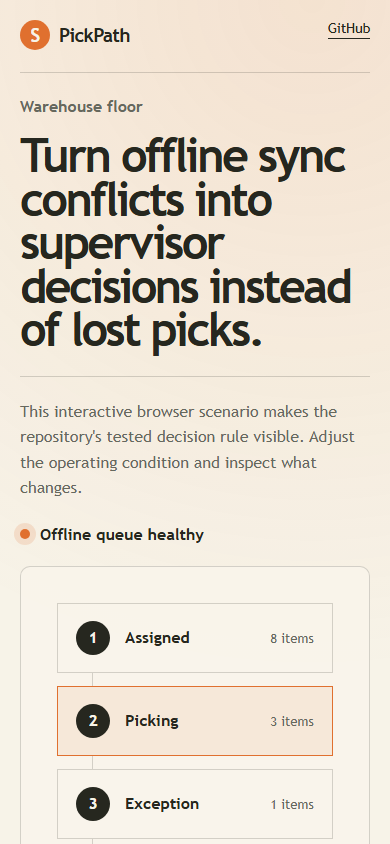
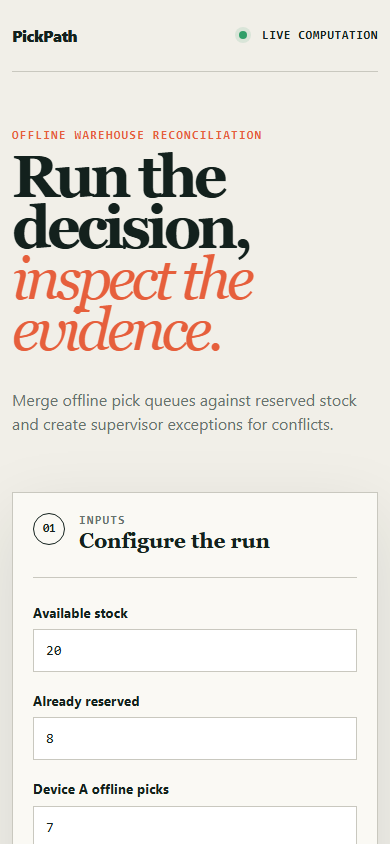
docs: show working deployed application

diff --git a/README.md b/README.md
@@ -6,9 +6,9 @@
 
 [![CI and deployment](https://github.com/SlateGitOrg/pickpath/actions/workflows/ci.yml/badge.svg?branch=main)](https://github.com/SlateGitOrg/pickpath/actions/workflows/ci.yml)
 
-[Open the interactive PickPath demo](https://slategitorg.github.io/pickpath/)
+[Open the working PickPath application](https://slategitorg.github.io/pickpath/)
 
-The deployed interface uses a deterministic offline scenario to make the repository's tested decision rule visible without external services or private data.
+This deployed application runs the project's decision workflow in the browser. Change the inputs, run the analysis, and inspect the computed metrics and decision trace.
 
 ### Desktop
 
